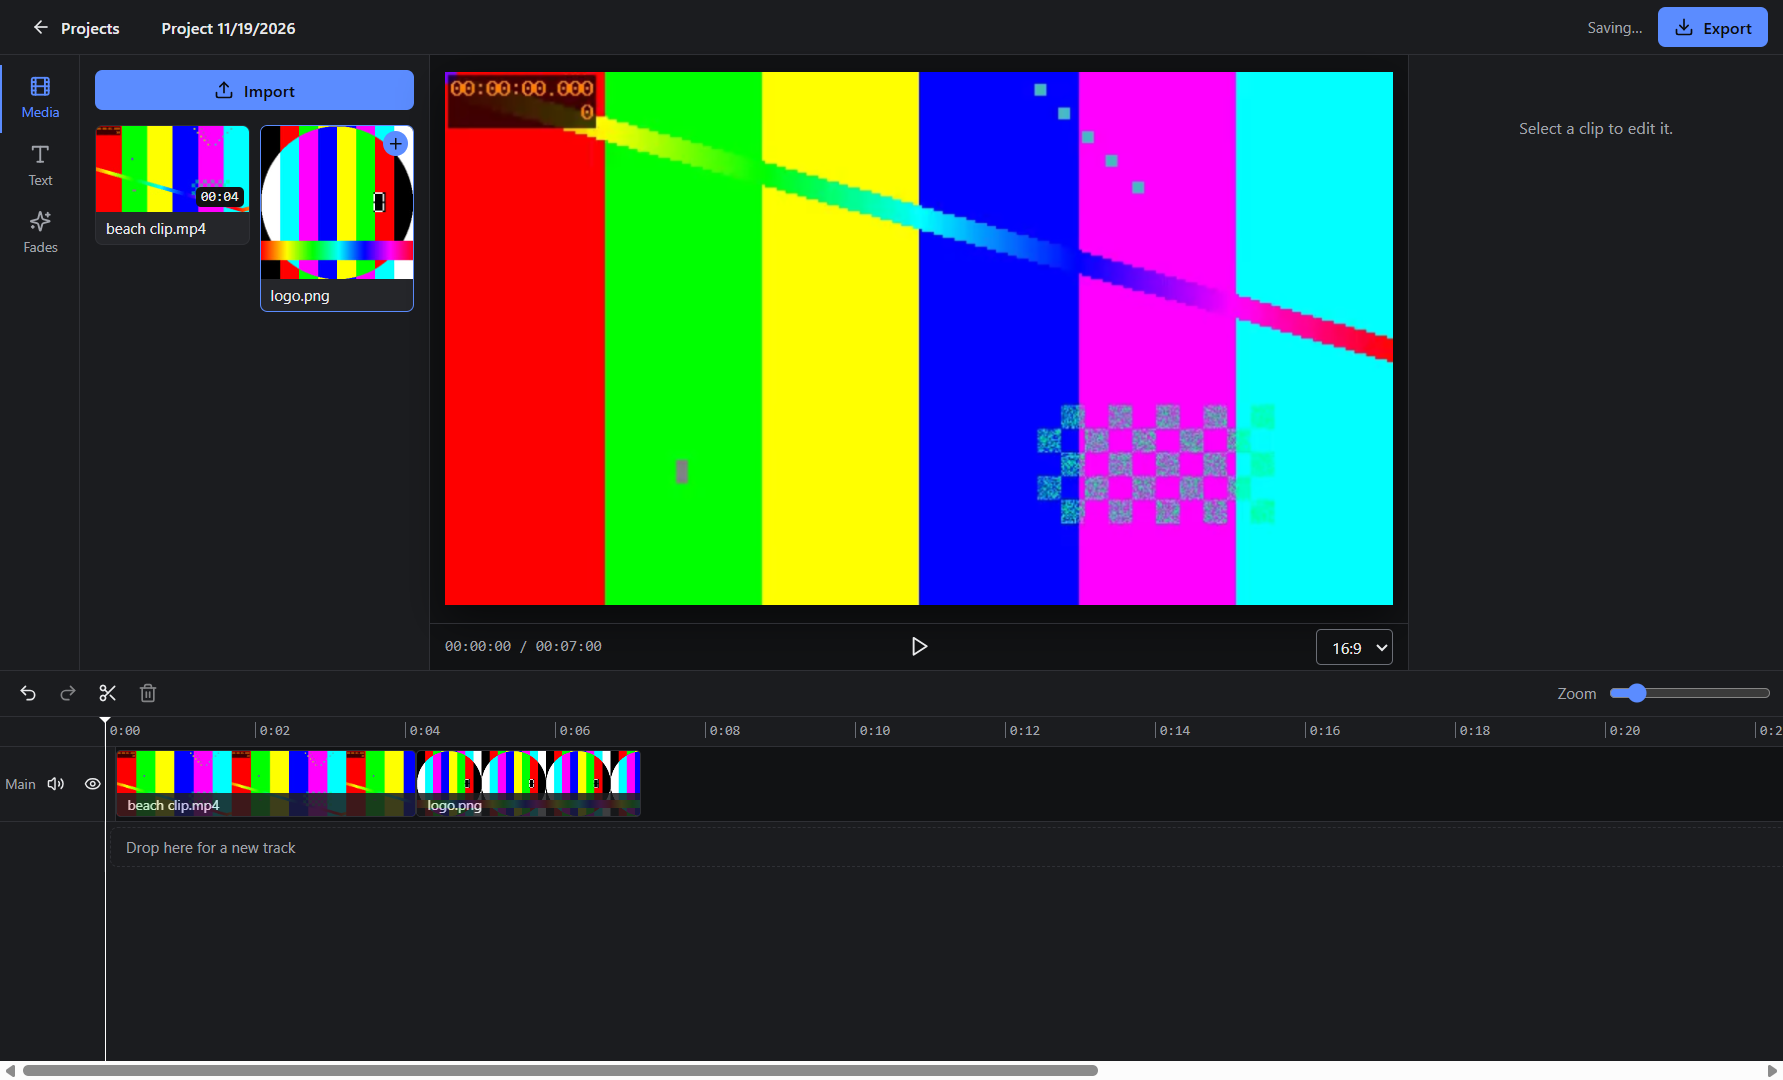
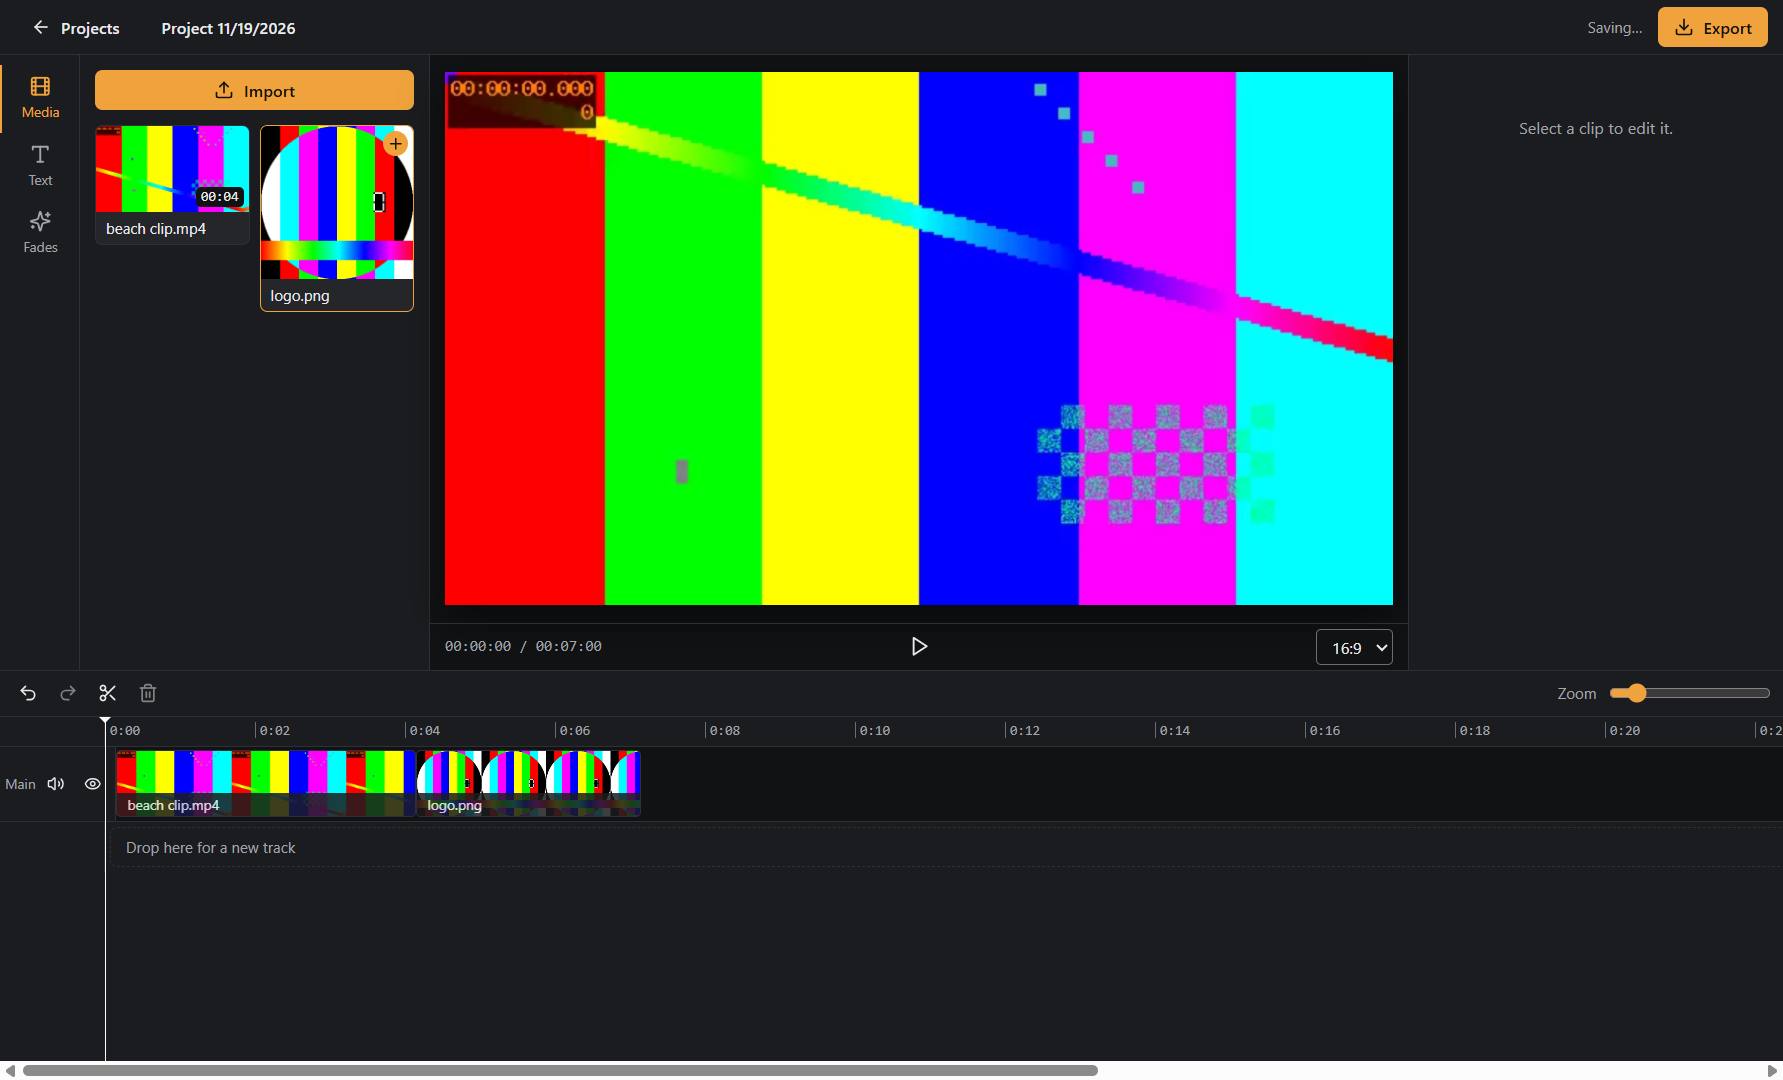
brand: Reelwright name, amber palette, voice, clean sweep

Changed region(s): [[0.0, 0.0611, 0.2468, 0.1528], [0.9254, 0.0, 1.0, 0.0611], [0.8946, 0.6111, 0.9254, 0.6722]]

diff --git a/replica/design/tokens.css b/replica/design/tokens.css
@@ -6,14 +6,14 @@
   --c-border-input: #6b6e76;
   --c-text: #e9eaec;
   --c-text-muted: #a1a4ab;
-  --c-accent: #5b8cff;
-  --c-on-accent: #0b0c0e;
-  --c-danger: #ff6b6b;
+  --c-accent: #f0a33c;
+  --c-on-accent: #17110a;
+  --c-danger: #ff7a7a;
   --c-success: #4cc38a;
   --c-warning: #f5b945;
-  --c-clip-video: #2c4a6e;
-  --c-clip-audio: #2b5a45;
-  --c-clip-text: #5a3f6e;
+  --c-clip-video: #2b4560;
+  --c-clip-audio: #2a5444;
+  --c-clip-text: #5e3d55;
   --c-playhead: #ffffff;
   --font-sans: Inter, system-ui, Segoe UI, Roboto, sans-serif;
   --font-mono: ui-monospace, Consolas, monospace;

diff --git a/src/main/index.ts b/src/main/index.ts
@@ -218,7 +218,8 @@ function createWindow() {
     height: 900,
     minWidth: 1100,
     minHeight: 700,
-    backgroundColor: '#111214',
+    backgroundColor: '#111214', // = --c-bg, shown before the page paints
+    title: 'Reelwright',
     autoHideMenuBar: true,
     webPreferences: { preload: join(__dirname, '../preload/index.js'), contextIsolation: true, nodeIntegration: false, sandbox: true }
   })

diff --git a/src/renderer/index.html b/src/renderer/index.html
@@ -6,7 +6,7 @@
       http-equiv="Content-Security-Policy"
       content="default-src 'self'; script-src 'self'; style-src 'self' 'unsafe-inline'; img-src 'self' media: data:; media-src media:; connect-src 'self' ws:"
     />
-    <title>Video Editor</title>
+    <title>Reelwright</title>
   </head>
   <body>
     <div id="root"></div>

diff --git a/replica/brand.md b/replica/brand.md
@@ -1,0 +1,90 @@
+# Brand: Reelwright
+
+Angle (fixes.md, A + C): a desktop editor where every feature is free and nothing is locked at export; a tool, not a feed.
+"Reelwright" = a maker of reels, like a shipwright or wheelwright: craft, not hype.
+
+## Name
+
+20 candidates: Openframe, Clipbench, Plainreel, Reelwright, Framewise, Splicebox, Tapeline, Vidora, Kliff, Montra, Edda,
+Workbench, Marquee, Assemble, Stitch, Plainframe, Reelhouse, Cutting Room*, Freecut*, Splice*.
+(*dropped at once: "cut" echoes the original; Splice is an existing video editor.)
+
+Screened on 2026-11-19 (screening, not legal clearance):
+
+| check | Reelwright | Plainframe | Tapeline | Framewise | Montra |
+| --- | --- | --- | --- | --- | --- |
+| iOS App Store exact name | none found | none found | "Tapeline: Body Measurement Log" (other category) | "Framewise" exists | "Montra: Photo & Video Collage" (conflict) |
+| Mac App Store | none found | none found | none found | none found | none found |
+| .com / .app (DNS NS records) | registered / registered | registered / registered | registered / registered | registered / registered | registered / registered |
+| .io | no NS records | no NS records | registered | registered | registered |
+| github.com/<name> | taken | taken | taken | taken | taken |
+| USPTO (class 9, 42) | to run | to run | to run | to run | to run |
+| EUIPO / TMview | to run | to run | to run | to run | to run |
+| Canada (CIPO) | to run | to run | to run | to run | to run |
+| WIPO Global Brand DB | to run | to run | to run | to run | to run |
+| Google Play exact name | to run | to run | to run | to run | to run |
+| X / Instagram / TikTok handles | to run | to run | to run | to run | to run |
+
+**Chosen: Reelwright** (by the user). For internal use the open checks don't block anything. Before any public release,
+run the trademark searches, and have a lawyer clear the name before spending money on it.
+
+## Palette
+
+The original's identity is black and white with cyan highlights. Reelwright keeps neutral darks (an editor needs them)
+and uses a warm amber accent, far from the blue and cyan family.
+
+| role | value |
+| --- | --- |
+| accent | #f0a33c (amber) |
+| on-accent | #17110a |
+| bg / surface / surface-2 | #111214 / #1b1c1f / #25262a |
+| clip video / audio / text | #2b4560 / #2a5444 / #5e3d55 |
+| danger | #ff7a7a |
+
+Contrast: 18 pairs, 0 AA failures (`contrast.py replica/design/tokens.json`).
+`brand.json` lists no original colours: their exact hex values were never measured, so the sweep checks name and domain only.
+
+## Logo brief
+
+- Idea: a film strip bent into a carpenter's square. Craft tools for video.
+- Mark: symbol plus wordmark; the symbol alone is the app icon.
+- Wordmark: Inter Bold or a sturdy grotesque; lowercase "reelwright".
+- Colours: amber symbol on #111214; one-colour version for 16px.
+- Must work at 16px (favicon: the square only, no sprocket holes) and as a 1024px icon.
+- Deliverables: SVG (symbol, wordmark, lockup), 1024x1024 icon with no transparency, .ico (16/32/48/256) for Windows, 1200x630 social image.
+- Must not resemble the original's mark: no black-white two-tone glyph, no interlocking letterforms, no cyan.
+- Status: not made. The app currently uses Electron's default icon.
+
+## Voice: plain, warm, exact
+
+- **Plain**, not bland: short words, no hype, no "AI-powered".
+- **Warm**, not cute: talks like a helpful colleague; no exclamation marks in errors.
+- **Exact**, not technical: says what happened and what to do, in user terms.
+
+| do | don't |
+| --- | --- |
+| "Couldn't import notes.txt: this file type is not supported." | "Oops! Something went wrong 😅" |
+| "Saved" | "Your masterpiece is safe in the cloud!" |
+| "Export video" | "Unlock HD export with Pro" |
+| "Your original media files are not touched." | "Are you sure? This cannot be undone!!!" |
+| "Select a clip to edit it." | "Nothing to see here 👀" |
+
+## The 10 most-seen strings (all written fresh for this app)
+
+| where | string |
+| --- | --- |
+| S01 title | Projects |
+| S01 empty | No projects yet. Start one to begin editing. |
+| S01 main button | New project |
+| S01 delete confirm | "{name}" will be removed. Your original media files are not touched. |
+| S03 empty | Drop video, audio or images here, or click Import. |
+| S08 empty | Drag clips from Media to start your timeline. |
+| S07 empty | Select a clip to edit it. |
+| S09 button | Choose file and export |
+| S09 done | Saved to {path} |
+| import error | Couldn't import {file}: {reason} |
+
+## Sweep
+
+`sweep.py . --config replica/brand.json` → clean (2026-11-19).
+Note: the project folder itself is still called `capcut-clone`. Rename it to `reelwright` when no editor or terminal has it open.
